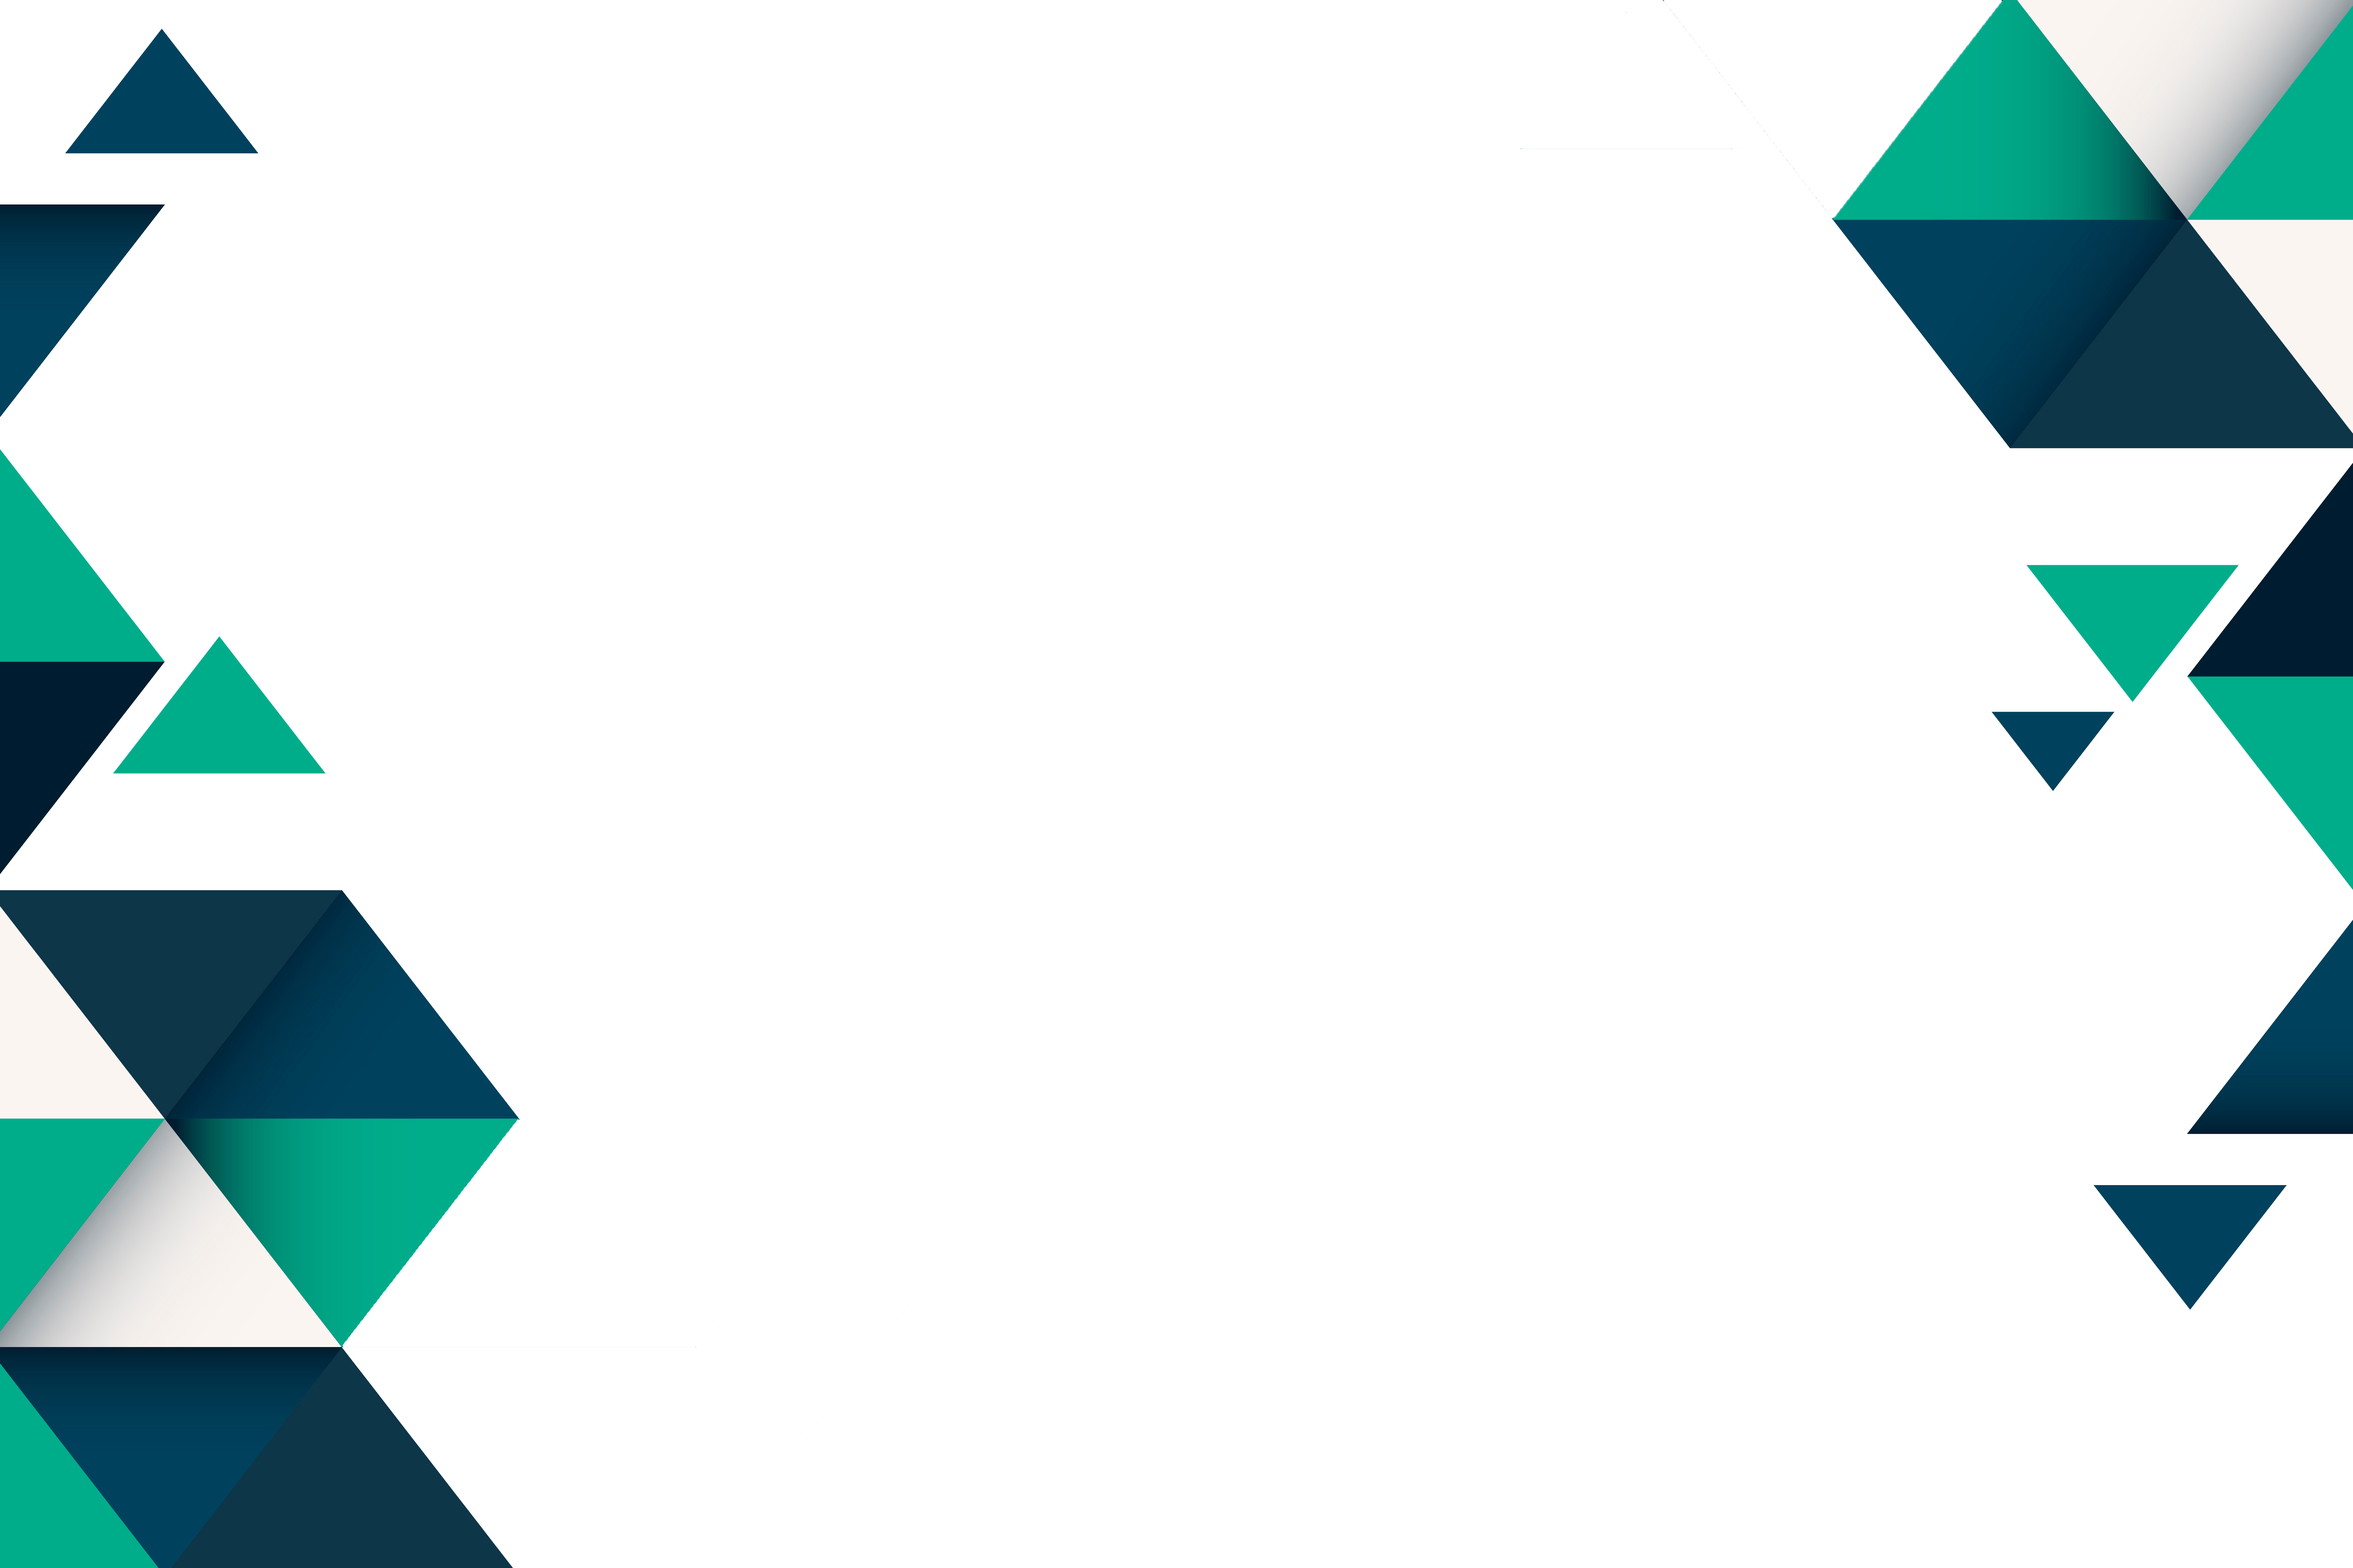
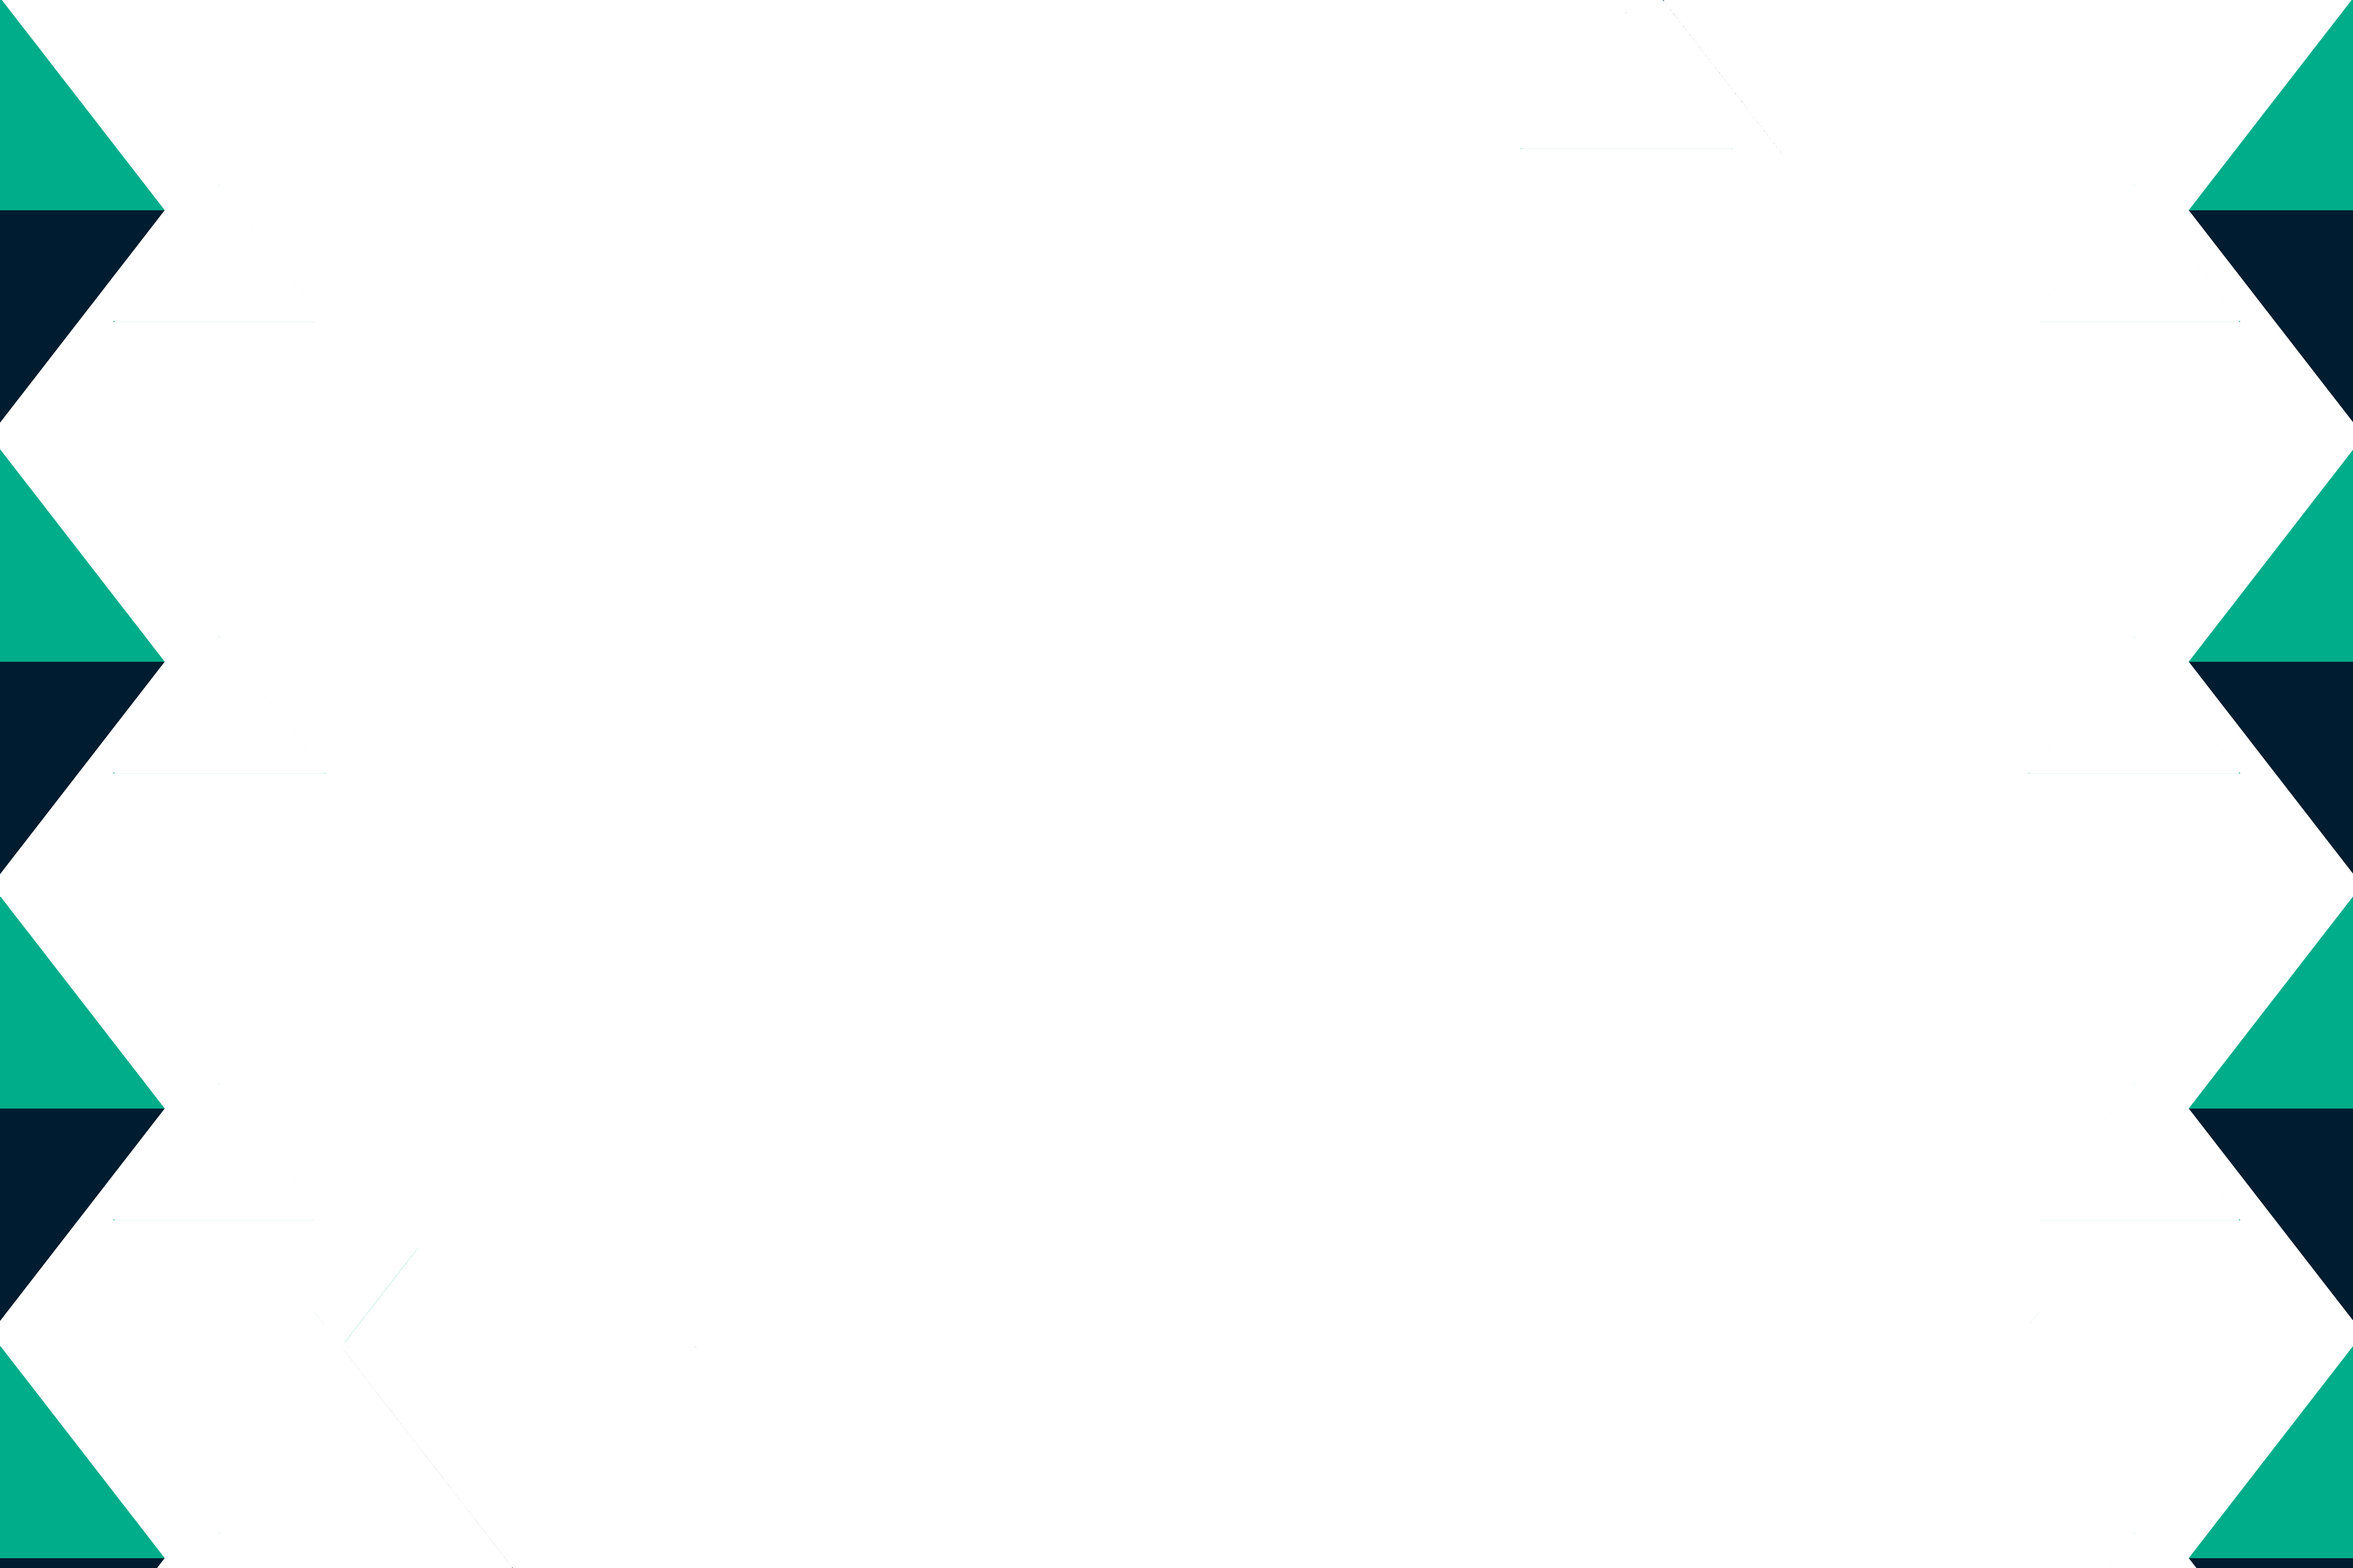
E-Resources Dynamic

diff --git a/src/Components/components.css b/src/Components/components.css
@@ -1,5 +1,5 @@
 .mobile {
-    display: none;
+    display: none !important;
 }
 /* Floating Admissions Button */
 
@@ -41,7 +41,7 @@
 
 /* Header */
 header {
-    background: var(--secondary-clr);
+    background: white;
     display: flex;
     flex-direction: column;
     width: 100%;
@@ -62,15 +62,21 @@ header {
     outline: none;
     background-color: var(--primary-clr);
     margin-left: 1.5rem;
-    padding: min(1.5rem, 3vw);
+    padding: min(1rem, 2vw);
     color: white;
     letter-spacing: .125em;
     font-weight: 700;
     border-radius: 1.5rem;
     box-shadow: 0 0 10px 5px rgba(0, 0, 0, 0.2);
-    font-size: min(1.5rem, 3vw);
+    font-size: min(1rem, 2vw);
+  
 }
 
+.header-btns{
+  display: flex;
+  flex-direction: column;
+  gap: min(1.5rem, 2vw)
+}
 .header-btns button:hover {
     outline: 3px solid white;
 }
@@ -79,10 +85,41 @@ header {
     height: min(150px, 20vw);
 }
 
+.clg-heading-container{
+  display: flex;
+  gap: min(2rem,2vw);
+  align-items: center;
+}
+
+.clg-heading-wrapper p{
+  margin: 0.5rem;
+
+}
+
+  .clg-heading{
+    color: red;
+    font-size: min(1.7rem, 3.4vw);
+    font-weight: 800;
+    text-align: center;
+  }
+.clg-sub-heading{
+  color: var(--primary-clr);
+  font-weight: 500;
+  text-align: center;
+  font-size: min(1.6rem, 3.2vw);
+}
+
+.clg-committee{
+  text-align: center;
+  font-size: min(1.2rem, 2.4vw);
+  font-weight: 500;
+  color: red;
+}
+
 
 .header-news {
     width: 100%;
-    color: white;
+    color: black;
 }
 @media(max-width: 1125px){
     .header-btns button{
@@ -405,8 +442,8 @@ footer p {
 /* Loader */
 
 .loader {
-    --background: linear-gradient(135deg, #23C4F8, #275EFE);
-    --shadow: rgba(39, 94, 254, 0.28);
+    --background: linear-gradient(135deg, var(--primary-clr), var(--secondary-clr));
+    --shadow: var(--primary-clr);
     --text: #6C7486;
     --page: rgba(255, 255, 255, 0.36);
     --page-fold: rgba(255, 255, 255, 0.52);

diff --git a/src/Academics/EResources/EResources.jsx b/src/Academics/EResources/EResources.jsx
@@ -1,13 +1,17 @@
 import React from 'react'
 import './eresources.css'
 import { Link } from 'react-router-dom'
-import NavBar from '../Components/Navbar'
-import Header from '../Components/Header'
-import Footer from '../Components/Footer'
+import NavBar from '../../Components/Navbar'
+import Header from '../../Components/Header'
+import Footer from '../../Components/Footer'
+import useFetch from '../../useFetch'
+import Loader from '../../Components/Loader'
 
 export default function EResources() {
+
+    const { data: eResources, isPending } = useFetch("http://localhost:5000/E_Resources/EResources_Display")
     return (
-        <>  
+        <>
             <Header></Header>
             <NavBar></NavBar>
             <section className='e-resources'>
@@ -22,14 +26,15 @@ export default function EResources() {
                                 URL
                             </div>
                         </div>
-                        {[...Array(13)].map((x, i) => {
+                        {isPending && <Loader />}
+                        {eResources && eResources.map((x, i) => {
                             return (
                                 <div className="e-resources-item" key={i}>
                                     <div className="publisher-item">
-                                        SGTBIMIT
+                                        {x.name}
                                     </div>
                                     <div className="url-item">
-                                        <Link to={"http://sciencecongress.nic.in/institutional_members.php"}>http://sciencecongress.nic.in/institutional_members.php</Link>
+                                        <Link to={x.url}>{x.url}</Link>
                                     </div>
                                 </div>
                             )

diff --git a/src/Components/Header.jsx b/src/Components/Header.jsx
@@ -17,7 +17,19 @@ export default function Header() {
     <header>
       <Admission />
       <div className="header-top">
-        <img src={logo} alt="" className='logo' />
+        <div className="clg-heading-container">
+          <img src={logo} alt="" className='logo' />
+          <div className="clg-heading-wrapper">
+            <p className="clg-heading">SRI GURU TEGH BAHADUR INSTITUTE OF MANAGEMENT AND INFORMATION TECHNOLOGY</p>
+            <p className="clg-sub-heading">
+              (AFFILIATED TO GURU GOBIND SINGH INDRAPRASTHA UNIVERSITY)
+            </p>
+            <p className="clg-committee">
+              (UNDER THE MANAGEMENT OF DELHI SIKH GURUDWARA MANAGEMENT COMMITTEE)
+            </p>
+          </div>
+
+        </div>
         <div className="desktop header-btns">
           <button className="admission-btn" type="button">CLICK HERE FOR ADMISSIONS</button>
           <button className="student-login-btn" type="button">STUDENT - ERP LOGIN</button>

diff --git a/src/DirectorReadMore/DirectorReadMore.jsx b/src/DirectorReadMore/DirectorReadMore.jsx
@@ -22,7 +22,6 @@ export default function DirectorReadMore() {
                     {directorData.map(director => (
                         <>
                             <div className='cont'>
-                                <div className='gradient'></div>
                                 <img src={`http://localhost:5000/Administration/AdministrationImageDisplay/${director._id}`} alt="cant load" data-aos="fade-up" />
                                 <div className='title'>{director.name}
                                     <div className="dir-position">{director.position}</div>

diff --git a/src/App.js b/src/App.js
@@ -18,7 +18,7 @@ import Saarang from './Society/pages/Saarang'
 import Eco from './Society/pages/Eco'
 import SwachhBharat from './Society/pages/SwachhBharat' 
 import Faculty from './Faculty/Faculty'
-import EResources from './EResources/EResources.jsx'
+import EResources from './Academics/EResources/EResources.jsx'
 import Examination from './Academics/Examination/Examination'
 import Syllabus from './Academics/Syllabus/Syllabus.jsx'
 import Fees from './Fees/Fees'

diff --git a/src/GoverningBody/adminis.css b/src/GoverningBody/adminis.css
@@ -6,7 +6,7 @@
     width: 100%;
     position: relative;
     background: url("../images/bg-2.png");
-    background-size: cover;
+    background-size: 100%;
     
 }
 

diff --git a/src/Academics/Syllabus/syllabus.css b/src/Academics/Syllabus/syllabus.css
@@ -1,6 +1,6 @@
 .syllabus {
     background: url("../../images/bg-2.png");
-    background-size:110%;
+    background-size:100%;
     margin-bottom: min(2rem,2vw);
 }
 

diff --git a/src/Academics/EResources/eresources.css b/src/Academics/EResources/eresources.css
@@ -47,3 +47,7 @@
     height: 100%;
 
 }
+.e-resources{
+    background: url("../../images/bg-2.png");
+    background-size:100%;
+}
